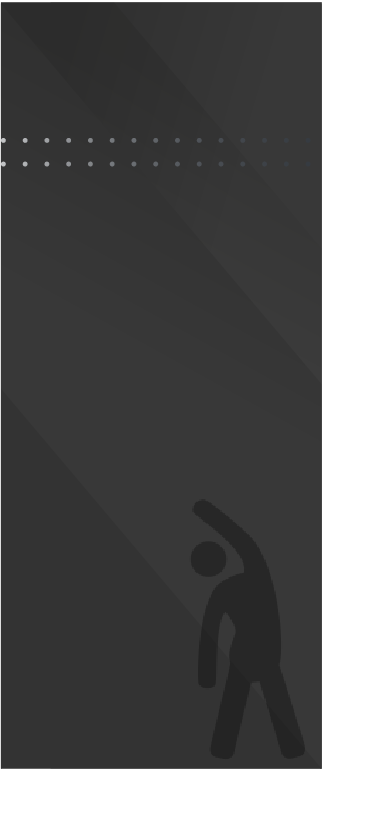
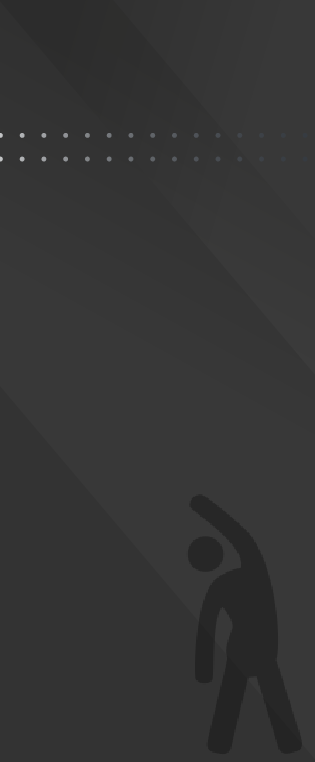
added stretches page

diff --git a/src/allPages/stretchingProgram.jsx b/src/allPages/stretchingProgram.jsx
@@ -1,0 +1,166 @@
+import { useState, useEffect } from "react";
+import { useNavigate } from "react-router-dom";
+
+// comstant navigation btns
+import forwardBtn from "../media/forwardBtn.svg";
+import backwardBtn from "../media/backwardBtn.svg";
+import closeBtn from "../media/close.svg";
+import actualSchooLogo from "../media/school.svg";
+import homeBtn from "../media/homeBtn.svg";
+
+//stretches photos
+import backArmStretch from "../media/stretching/backArmsStretch.png";
+import butterflySitStretch from "../media/stretching/butterflySitStretch.png";
+import elbowStretch from "../media/stretching/elbowStretch.png";
+import headRollStretch from "../media/stretching/headRollStretch.png";
+import layingStretch from "../media/stretching/layingStretch.png";
+import layingStretches from "../media/stretching/layingStretches.png";
+import lungeStretch from "../media/stretching/lungeStretch.png";
+import sideStretch from "../media/stretching/sideStretch.png";
+import sittingLegStretch from "../media/stretching/sittingLegStretch.png";
+import sittingStandingStretch from "../media/stretching/sittingStandingStretch.png";
+import spineStretch from "../media/stretching/spineStretch.png";
+import twinStretch from "../media/stretching/twinStretch.png";
+
+const StretchingProgram = () => {
+  const [currPage, setCurrPage] = useState(0);
+  const [stretches, setStretches] = useState([]);
+  const navigate = useNavigate();
+  const [titles, setTitles] = useState([]);
+  const [descs, setDescs] = useState([]);
+  const [notes, setNotes] = useState([]);
+  const [totalPages, setTotalPAges] = useState(12);
+  const [timerRunning, setTimerRunning] = useState(false);
+  const stretchesImages = [
+    elbowStretch,
+    sideStretch,
+    backArmStretch,
+    layingStretch,
+    spineStretch,
+    headRollStretch,
+    layingStretches,
+    lungeStretch,
+    sittingStandingStretch,
+    sittingLegStretch,
+    butterflySitStretch,
+    twinStretch,
+  ];
+  const [timeLefts, setTimeLefts] = useState(Array(totalPages).fill(20));
+  useEffect(() => {
+    fetch(import.meta.env.BASE_URL + "data/db.json")
+      .then((res) => {
+        if (!res.ok) throw new Error("Network response was not ok");
+        return res.json();
+      })
+      .then((data) => {
+        setStretches(data.stretching);
+        const titlesArray = data.stretching.map((item) => item.title);
+        const descsArray = data.stretching.map(
+          (item) => item["stretch-description"]
+        );
+        const notesArray = data.stretching.map((item) => item.notes);
+        console.log(data.stretching);
+
+        setTitles(titlesArray);
+        setDescs(descsArray);
+        setNotes(notesArray);
+      })
+      .catch((err) => console.error("Fetch error:", err));
+  }, []);
+
+  const handleForward = () => {
+    if (currPage != 11) {
+      setCurrPage(currPage + 1);
+    }
+  };
+
+  const handleBackward = () => {
+    if (currPage != 0) {
+      setCurrPage(currPage - 1);
+    } else {
+      navigate("/start-programs");
+    }
+  };
+
+  // inside your component
+  useEffect(() => {
+    if (!timerRunning) return;
+
+    const interval = setInterval(() => {
+      setTimeLefts((prev) => {
+        const newArr = [...prev];
+        if (newArr[currPage] <= 1) {
+          newArr[currPage] = 0;
+          setTimerRunning(false);
+          clearInterval(interval);
+        } else {
+          newArr[currPage] -= 1;
+        }
+        return newArr;
+      });
+    }, 1000);
+
+    return () => clearInterval(interval); // cleanup if component unmounts
+  }, [timerRunning, currPage]);
+
+  return (
+    <div className="stretching-exercies-page">
+      <div className="page-header-stretches">
+        <div className="text page-title">מתיחות</div>
+        <div className="text small-message">לחץ לפירוט</div>
+      </div>
+      <div className="page-middle-stretches">
+        <div className="text page-title">{titles[currPage]}</div>
+        <img src={stretchesImages[currPage]} />
+        <div className="text timer-stretches">
+          {timeLefts[currPage] > 0 ? `${timeLefts[currPage]} שניות` : "סיימת!"}
+        </div>
+        <button
+          className="running-popup"
+          onClick={() => setTimerRunning(true)}
+          disabled={timeLefts[currPage] <= 0 || timerRunning}
+        >
+          הפעל טיימר
+        </button>
+      </div>
+      {/* school log */}
+      <img
+        src={actualSchooLogo}
+        alt="schoolLogo"
+        className="logo"
+        id="school-logo"
+      />
+      {/* home button */}
+      <img
+        src={homeBtn}
+        className="home-btn"
+        onClick={() => {
+          navigate("/start-programs");
+        }}
+      />
+      <div className="buttons-move">
+        <img
+          src={forwardBtn}
+          alt="continue"
+          onClick={() => {
+            handleForward();
+          }}
+          className="move-button"
+          id="forward-btn"
+          style={{ visibility: currPage === 11 ? "hidden" : "visible" }}
+        />
+        <img
+          src={backwardBtn}
+          alt="back"
+          onClick={() => {
+            handleBackward();
+          }}
+          className="move-button"
+          id="backward-btn"
+        />
+      </div>
+    </div>
+  );
+};
+
+export default StretchingProgram;

diff --git a/src/App.jsx b/src/App.jsx
@@ -4,10 +4,11 @@ import ImportantNotes from "./allPages/ImportantNotes";
 import NeedsPage from "./allPages/needPage";
 import "./App.css";
 import SlidesPage from "./allPages/slidesPage";
-import ProgramPage from "./allPages/programsStart"
+import ProgramPage from "./allPages/programsStart";
 import RunningProgram from "./allPages/runningProgram";
 import RunningProgramWeeks from "./allPages/runningProgramWeeks";
 import SwimmingProgram from "./allPages/swimmingProgram";
+import StretchingProgram from "./allPages/stretchingProgram";
 
 function App() {
   return (
@@ -15,16 +16,16 @@ function App() {
       <div className="App">
         <header className="App-Content">
           <Routes>
-             <Route path="/" element={<StartPage />} />
-             <Route path="/important-note" element={<ImportantNotes />} />
-             <Route path="/need-page" element={<NeedsPage/>} />
-             <Route path = "/slides-page" element={<SlidesPage/>} />
-             <Route path="/start-programs" element={<ProgramPage/>} />
-             <Route path="/running-program" element={<RunningProgram/>}/>
-             <Route path = "/running-program-weeks" element={<RunningProgramWeeks/>}/>
-             <Route path = "/swimming-program" element = {<SwimmingProgram/>}/>
+            <Route path="/" element={<StartPage />} />
+            <Route path="/important-note" element={<ImportantNotes />} />
+            <Route path="/need-page" element={<NeedsPage />} />
+            <Route path="/slides-page" element={<SlidesPage />} />
+            <Route path="/start-programs" element={<ProgramPage />} />
+            <Route path="/running-program" element={<RunningProgram />} />
+            <Route path="/running-program-weeks" element={<RunningProgramWeeks />}/>
+            <Route path="/swimming-program" element={<SwimmingProgram />} />
+            <Route path="/stretching-program" element={<StretchingProgram />} />
           </Routes>
-          
         </header>
       </div>
     </Router>

diff --git a/src/App.css b/src/App.css
@@ -319,7 +319,7 @@ body {
 .weeks-page-header,
 .running-header,
 .page-header-running-start,
-.swimming-page-header {
+.swimming-page-header, .page-header-stretches{
   padding-top: 3vh;
   padding-right: 5vw;
   display: flex;
@@ -334,11 +334,11 @@ body {
   padding-right: 0vw;
 }
 
-.page-header-running-start {
+.page-header-running-start{
   padding-right: 0px;
 }
 
-.running-header {
+.running-header, .page-header-stretches  {
   margin-bottom: 10rem;
   padding-right: 0px;
 }
@@ -348,7 +348,7 @@ body {
   padding-right: 0vw;
 }
 
-.page-title {
+.page-title, .timer-stretches {
   font-size: clamp(2rem, 3vh, 4rem);
 }
 
@@ -599,18 +599,28 @@ button {
 
 .choosing-program-page,
 .continious-run-page,
-.better-run-page {
+.better-run-page, .stretching-exercies-page {
   height: 100vh;
   width: 100vw;
   background-image: url("media/runningPageBg.png");
   background-size: 100% 100%;
+  background-repeat: no-repeat;
+}
+
+.stretching-exercies-page {
+  background-image: url("media/strechingBg.png");
+
 }
 
 .continious-run-page,
-.page-middle {
+.page-middle, .page-middle-stretches{
   display: flex;
   flex-direction: column;
   align-items: center;
+}
+
+.page-middle-stretches {
+  gap: 1rem;
 }
 
 .timer {
@@ -635,6 +645,10 @@ button {
     padding-top: 6vh;
     margin-bottom: 5rem;
   }
+  .page-header-stretches{
+    margin-bottom: 5rem;
+  }
+  
 }
 
 .runing-program-week,
@@ -661,4 +675,8 @@ button {
   background-color: #333333;
   border: 2px solid white;
   box-shadow: 0px 0px 15px 2px #0071bc;
+}
+
+.running-popup:disabled {
+  opacity: 0.5;
 }

diff --git a/src/allPages/programsStart.jsx b/src/allPages/programsStart.jsx
@@ -46,7 +46,7 @@ const ProgramPage = () => {
           <div className="program-sports">
             <p className="program-text">תרגילי יציבות וחיזוק בסיסיים</p>
           </div>
-          <div className="program-sports">
+          <div className="program-sports" onClick = {() => {navigate("/stretching-program")}}>
             <p className="program-text">מתיחות</p>
           </div>
           <div className="program-sports" onClick = {() => {navigate("/swimming-program")}}>
